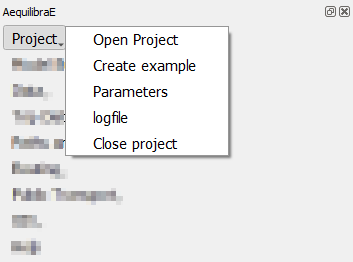
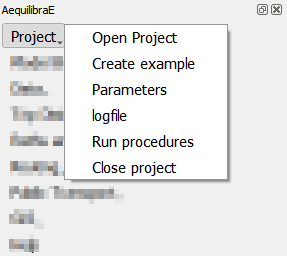
Add run module (#450)
* add run module

* add to menu

* add test

* Update test_run_module.py

* tests

* Update test_run_module.py

* Adds run module to provider

* test

* docs

* docs

* Update docs/source/processing_provider.rst

* Update test/test_qaequilibrae_menu_without_project.py

* remove comment

* Update processing_provider_run_module.png

* run procedures instead

* Update test_qaequilibrae_menu_without_project.py

* remove parsing from run module

* .

* images

* Update run_module_dialog.py

* aequilibrae version

* workflows

* Update DevWorkflow.yml

* Update metadata.txt

---------

Pull request: Add run module
In this PR we incorporate AequilibraE's run module into the QGIS widget and the processing provider, adding the necessary tests and documentation.

diff --git a/test/test_run_module.py b/test/test_run_module.py
@@ -1,0 +1,100 @@
+from os.path import join
+from unittest import mock
+import sqlite3
+
+import numpy as np
+import pandas as pd
+from aequilibrae.parameters import Parameters
+from qgis.PyQt.QtCore import Qt
+
+from qaequilibrae.modules.project_procedures.run_module_dialog import RunModuleDialog
+from .utilities import create_matrix
+
+functions = {0: "matrix_summary", 1: "graph_summary", 2: "results_summary", 3: "example_function_with_kwargs"}
+
+
+def create_dialog_with_matrix(project):
+    pth = join(project.project.project_base_path, "matrices/demand.aem")
+    create_matrix(np.arange(1, 134), pth)
+
+    matrices = project.project.matrices
+    matrices.update_database()
+    matrices.reload()
+
+    return RunModuleDialog(project)
+
+
+def test_example_function_with_kwargs(coquimbo_project, qtbot, timeoutDetector):
+    # Patch LogDialog to avoid modal exec_ blocking the test
+    with mock.patch("qaequilibrae.modules.project_procedures.run_module_dialog.LogDialog") as MockLogDialog:
+        # Make exec_ do nothing
+        MockLogDialog.return_value.exec_ = lambda *args, **kwargs: None
+        MockLogDialog.return_value.show = lambda *args, **kwargs: None
+
+        dialog = RunModuleDialog(coquimbo_project)
+
+        dialog.cob_function.setCurrentIndex(0)
+        assert dialog.cob_function.currentText() == functions[3]
+
+        qtbot.mouseClick(dialog.but_run, Qt.LeftButton)
+
+        project_log = dialog.project.log()
+        contents = project_log.contents()
+
+        assert "None" in contents[-1]
+
+
+def test_new_function(coquimbo_project, qtbot, timeoutDetector):
+    func_string = """from aequilibrae.context import get_active_project\n
+def create_delaunay(source: str, name: str, computational_view: str, result_name: str, overwrite: bool=False):\n
+\tfrom aequilibrae.utils.create_delaunay_network import DelaunayAnalysis\n
+\tproject = get_active_project()\n
+\tmatrix = project.matrices\n
+\tmat = matrix.get_matrix(name)\n
+\tmat.computational_view(computational_view)\n
+\tda = DelaunayAnalysis(project)\n
+\tda.create_network(source, overwrite)\n
+\tda.assign_matrix(mat, result_name)\n
+"""
+
+    folder = coquimbo_project.project.project_base_path
+
+    with open(join(folder, "run", "create_delaunay.py"), "w") as file:
+        file.write(func_string)
+
+    with open(join(folder, "run", "__init__.py"), "r") as file:
+        lines = file.readlines()
+
+    lines.insert(19, "from .create_delaunay import create_delaunay\n")
+
+    with open(join(folder, "run", "__init__.py"), "w") as file:
+        file.writelines(lines)
+
+    p = Parameters(coquimbo_project.project)
+    p.parameters["run"]["create_delaunay"] = {}
+    p.parameters["run"]["create_delaunay"]["source"] = "zones"
+    p.parameters["run"]["create_delaunay"]["name"] = "b''"
+    p.parameters["run"]["create_delaunay"]["computational_view"] = "demand"
+    p.parameters["run"]["create_delaunay"]["result_name"] = "delaunay_test"
+    p.write_back()
+
+    with mock.patch("qaequilibrae.modules.project_procedures.run_module_dialog.LogDialog") as MockLogDialog:
+        # Make exec_ do nothing
+        MockLogDialog.return_value.exec_ = lambda *args, **kwargs: None
+        MockLogDialog.return_value.show = lambda *args, **kwargs: None
+
+        dialog = create_dialog_with_matrix(coquimbo_project)
+
+        assert len(dialog.items) > 1
+
+        dialog.cob_function.setCurrentIndex(0)
+        assert dialog.cob_function.currentText() == "create_delaunay"
+
+        qtbot.mouseClick(dialog.but_run, Qt.LeftButton)
+
+    res_path = join(coquimbo_project.project.project_base_path, "results_database.sqlite")
+    conn = sqlite3.connect(res_path)
+
+    results = pd.read_sql("SELECT * FROM delaunay_test", conn).set_index("link_id")
+
+    assert results.shape != (0, 0)

diff --git a/qaequilibrae/modules/processing_provider/run_module.py b/qaequilibrae/modules/processing_provider/run_module.py
@@ -1,0 +1,80 @@
+from aequilibrae.context import get_logger
+from qgis.core import QgsProcessingAlgorithm, QgsMessageLog, QgsProcessingParameterString
+from qgis.core import QgsProcessingParameterEnum
+from qgis.utils import plugins
+
+from qaequilibrae.i18n.translate import trlt
+
+
+class RunProcedures(QgsProcessingAlgorithm):
+    def initAlgorithm(self, config=None):
+        try:
+            # Attempt to retrieve the AequilibraE plugin instance
+            aeq_plugin = plugins.get("qaequilibrae")
+
+            if not aeq_plugin:
+                self.addParameter(
+                    QgsProcessingParameterString(
+                        "PROJECT_INFO", self.tr("No AequilibraE project loaded."), optional=True
+                    )
+                )
+                return
+            else:
+                self.project = aeq_plugin.project
+
+            # Check if there's an open project and fetch its information
+            if self.project:
+                self.items = list(self.project.run._fields)
+                self.addParameter(
+                    QgsProcessingParameterEnum(
+                        "available_funcs",
+                        self.tr("Available functions"),
+                        self.items,
+                        defaultValue=0,
+                    )
+                )
+            else:
+                self.addParameter(
+                    QgsProcessingParameterString(
+                        "PROJECT_INFO", self.tr("No AequilibraE project loaded."), optional=True
+                    )
+                )
+
+        except Exception as e:
+            # Handle cases where the plugin or project information is not accessible
+            QgsMessageLog.logMessage(f"Error checking AequilibraE project: {str(e)}")
+
+    def processAlgorithm(self, parameters, context, feedback):
+        feedback.pushInfo("Get logger")
+        logger = get_logger()
+
+        feedback.pushInfo("Run")
+        idx = parameters["available_funcs"]
+        func_name = self.items[idx]
+
+        func = getattr(self.project.run, func_name)
+        result = func()
+        logger.info(result)
+
+        return {"Output": "Success: Check logfile for details"}
+
+    def name(self):
+        return "runprocedures"
+
+    def displayName(self):
+        return self.tr("Run procedures")
+
+    def group(self):
+        return self.tr("1. Model Building")
+
+    def groupId(self):
+        return "modelbuilding"
+
+    def shortHelpString(self):
+        return self.tr("Run entire model pipelines from AequilibraE")
+
+    def createInstance(self):
+        return RunProcedures()
+
+    def tr(self, message):
+        return trlt("RunProcedures", message)

diff --git a/qaequilibrae/modules/project_procedures/run_module_dialog.py b/qaequilibrae/modules/project_procedures/run_module_dialog.py
@@ -1,0 +1,49 @@
+import os
+
+from aequilibrae.context import get_logger
+from qgis.PyQt import QtWidgets, uic
+from qgis.core import Qgis
+
+from qaequilibrae.modules.common_tools import LogDialog
+
+FORM_CLASS, _ = uic.loadUiType(os.path.join(os.path.dirname(__file__), "forms/ui_run_module.ui"))
+
+
+class RunModuleDialog(QtWidgets.QDialog, FORM_CLASS):
+    def __init__(self, qgis_project, logger=None):
+        QtWidgets.QDialog.__init__(self)
+        self.qgis_project = qgis_project
+        self.iface = qgis_project.iface
+        self.project = qgis_project.project
+        self.setupUi(self)
+
+        self.logger = logger or get_logger()
+
+        self.items = list(self.project.run._fields)
+        self.cob_function.addItems(self.items)
+
+        self.but_run.clicked.connect(self.run)
+
+    def run(self):
+        # Check if selected function is also present at the Parameters file
+        func_name = self.items[self.cob_function.currentIndex()]
+        parameter_keys = list(self.project.parameters["run"].keys())
+        if func_name not in parameter_keys:
+            self.iface.messageBar.pushMessage(
+                self.tr("Error"), self.tr("Please check the Parameters file"), level=Qgis.Critical, duration=5
+            )
+
+        func = getattr(self.project.run, func_name)
+        result = func()
+        self.logger.info(result)
+
+        self.iface.messageBar().pushMessage(self.tr("Run procedures executed"), "", level=Qgis.Info, duration=5)
+
+        self.exit_procedure()
+
+    def exit_procedure(self):
+        self.close()
+
+        dlg2 = LogDialog(self.qgis_project, self)
+        dlg2.show()
+        dlg2.exec_()

diff --git a/test/test_processing_provider.py b/test/test_processing_provider.py
@@ -40,6 +40,7 @@ from qaequilibrae.modules.processing_provider.project_from_OSM import ProjectFro
 from qaequilibrae.modules.processing_provider.project_from_layer import ProjectFromLayer
 from qaequilibrae.modules.processing_provider.provider import Provider
 from qaequilibrae.modules.processing_provider.renumber_nodes_from_layer import RenumberNodesFromLayer
+from qaequilibrae.modules.processing_provider.run_module import RunProcedures
 from qaequilibrae.modules.processing_provider.trip_length_distribution import TripLengthDistribution
 from .utilities import load_sfalls_from_layer, load_test_layer
 
@@ -523,3 +524,34 @@ def test_network_simplifier(folder_path):
 
     assert project.network.count_links() < links_before
     assert project.network.count_nodes() < nodes_before
+
+
+def test_run_module(folder_path):
+    project = create_example(folder_path)
+
+    parameters = {"available_funcs": 0}
+
+    action = RunProcedures()
+    action.items = ["example_function_with_kwargs"]
+    action.project = project
+
+    # Mock context and feedback
+    class DummyContext:
+        pass
+
+    class DummyFeedback:
+        def pushInfo(self, msg):
+            pass
+
+        def reportError(self, msg):
+            pass
+
+    context = DummyContext()
+    feedback = DummyFeedback()
+
+    _ = action.processAlgorithm(parameters, context, feedback)
+
+    project_log = project.log()
+    contents = project_log.contents()
+
+    assert "None" in contents[-1]

diff --git a/test/test_qaequilibrae_menu_with_project.py b/test/test_qaequilibrae_menu_with_project.py
@@ -71,6 +71,20 @@ def test_logfile_menu(ae_with_project, qtbot):
     assert len(messagebar.messages[3]) == 0, "Messagebar should be empty" + str(messagebar.messages)
 
 
+def test_run_module_menu(coquimbo_project, qtbot):
+    from qaequilibrae.modules.project_procedures import RunModuleDialog
+
+    def handle_trigger():
+        check_if_new_active_window_matches_class(qtbot, RunModuleDialog)
+
+    action = coquimbo_project.menuActions["Project"][4]
+    assert action.text() == "Run procedures", "Wrong text content"
+    QTimer.singleShot(10, handle_trigger)
+    action.trigger()
+    messagebar = coquimbo_project.iface.messageBar()
+    assert len(messagebar.messages[3]) == 0, "Messagebar should be empty" + str(messagebar.messages)
+
+
 def test_create_project_from_osm_menu(ae_with_project):
     action = ae_with_project.menuActions["Model Building"][0]
     assert action.text() == "Create project from OSM", "Wrong text content"

diff --git a/qaequilibrae/modules/menu_actions/action_run_module.py b/qaequilibrae/modules/menu_actions/action_run_module.py
@@ -1,0 +1,10 @@
+def run_module(qgis_project):
+    from qaequilibrae.modules.project_procedures import RunModuleDialog
+
+    if qgis_project.project is None:
+        qgis_project.show_message_no_project()
+        return
+
+    dlg2 = RunModuleDialog(qgis_project)
+    dlg2.show()
+    dlg2.exec_()

diff --git a/test/test_qaequilibrae_menu_without_project.py b/test/test_qaequilibrae_menu_without_project.py
@@ -66,6 +66,15 @@ def test_logfile_menu(ae, qtbot):
     assert messagebar.messages[3][0] == "Error:You need to load a project first", "Level 3 error message is missing"
 
 
+def test_run_module_menu(ae, qtbot):
+    action = next((a for a in ae.menuActions["Project"] if a.text() == "Run procedures"), None)
+    assert action is not None, "Menu action 'Run procedures' not found"
+    assert action.text() == "Run procedures", "Wrong text content"
+    action.trigger()
+    messagebar = ae.iface.messageBar()
+    assert messagebar.messages[3][0] == "Error:You need to load a project first", "Level 3 error message is missing"
+
+
 def test_create_project_from_osm_menu(ae, qtbot):
     from qaequilibrae.modules.project_procedures import ProjectFromOSMDialog
 

diff --git a/qaequilibrae/qaequilibrae.py b/qaequilibrae/qaequilibrae.py
@@ -25,7 +25,7 @@ from qaequilibrae.modules.menu_actions import run_distribution_models, run_chang
 from qaequilibrae.modules.menu_actions import run_load_project, project_from_osm, run_create_transponet
 from qaequilibrae.modules.menu_actions import run_pt_explore, show_log, create_example
 from qaequilibrae.modules.menu_actions import run_shortest_path, run_dist_matrix, run_traffic_assig
-from qaequilibrae.modules.menu_actions import run_route_choice, run_pt_skim, last_folder
+from qaequilibrae.modules.menu_actions import run_route_choice, run_pt_skim, last_folder, run_module
 from qaequilibrae.modules.processing_provider.provider import Provider
 
 sys.path.insert(0, join(dirname(__file__), "packages"))
@@ -112,6 +112,7 @@ class AequilibraEMenu:
         self.add_menu_action(self.tr("Project"), self.tr("Create example"), partial(create_example, self))
         self.add_menu_action(self.tr("Project"), self.tr("Parameters"), partial(run_change_parameters, self))
         self.add_menu_action(self.tr("Project"), self.tr("logfile"), partial(show_log, self))
+        self.add_menu_action(self.tr("Project"), self.tr("Run procedures"), partial(run_module, self))
         self.add_menu_action(self.tr("Project"), self.tr("Close project"), self.run_close_project)
 
         # # # ########################################################################

diff --git a/qaequilibrae/modules/processing_provider/provider.py b/qaequilibrae/modules/processing_provider/provider.py
@@ -31,6 +31,7 @@ class Provider(QgsProcessingProvider):
         from .trip_length_distribution import TripLengthDistribution
         from .network_simplifier import NetworkSimplifier
         from .collapse_links import CollapseLinks
+        from .run_module import RunProcedures
 
         self.addAlgorithm(AddConnectors())
         self.addAlgorithm(AddLinksFromLayer())
@@ -48,6 +49,7 @@ class Provider(QgsProcessingProvider):
         self.addAlgorithm(TripLengthDistribution())
         self.addAlgorithm(NetworkSimplifier())
         self.addAlgorithm(CollapseLinks())
+        self.addAlgorithm(RunProcedures())
 
     def id(self):
         """The ID used for identifying the provider.

diff --git a/qaequilibrae/modules/menu_actions/__init__.py b/qaequilibrae/modules/menu_actions/__init__.py
@@ -23,3 +23,4 @@ from .create_networks import run_create_transponet
 from .load_project_action import run_load_project
 from .project_from_osm_action import project_from_osm
 from .last_folder import last_folder
+from .action_run_module import run_module

diff --git a/qaequilibrae/modules/project_procedures/__init__.py b/qaequilibrae/modules/project_procedures/__init__.py
@@ -2,3 +2,4 @@ from .adds_zones_dialog import AddZonesDialog
 from .create_examples_dialog import CreateExampleDialog
 from .creates_transponet_dialog import CreatesTranspoNetDialog
 from .project_from_osm_dialog import ProjectFromOSMDialog
+from .run_module_dialog import RunModuleDialog

diff --git a/docs/source/menus_in_detail/project.rst b/docs/source/menus_in_detail/project.rst
@@ -80,6 +80,23 @@ using the **save to disk** button in the lower left corner of the log file box.
     :align: center
     :alt: proj logfile
 
+.. _run-procedures:
+
+Run procedures
+--------------
+
+The run procedures allows you to define model entry points and their default arguments, and run models
+to the model itself. Usage at QAequilibraE is pretty straightforward: select one of the available
+functions, click on the *Run!* button, and wait for the log file to open with the output results of
+the model.
+
+To better understand the application of the run module, we encourage you to read about it at 
+`the AequilibraE documentation <https://www.aequilibrae.com/develop/python/run_module.html>`_.
+
+.. image:: ../images/run_module_dialog.png
+    :align: center
+    :alt: run module dialog
+
 .. Video tutorial
 .. --------------
 